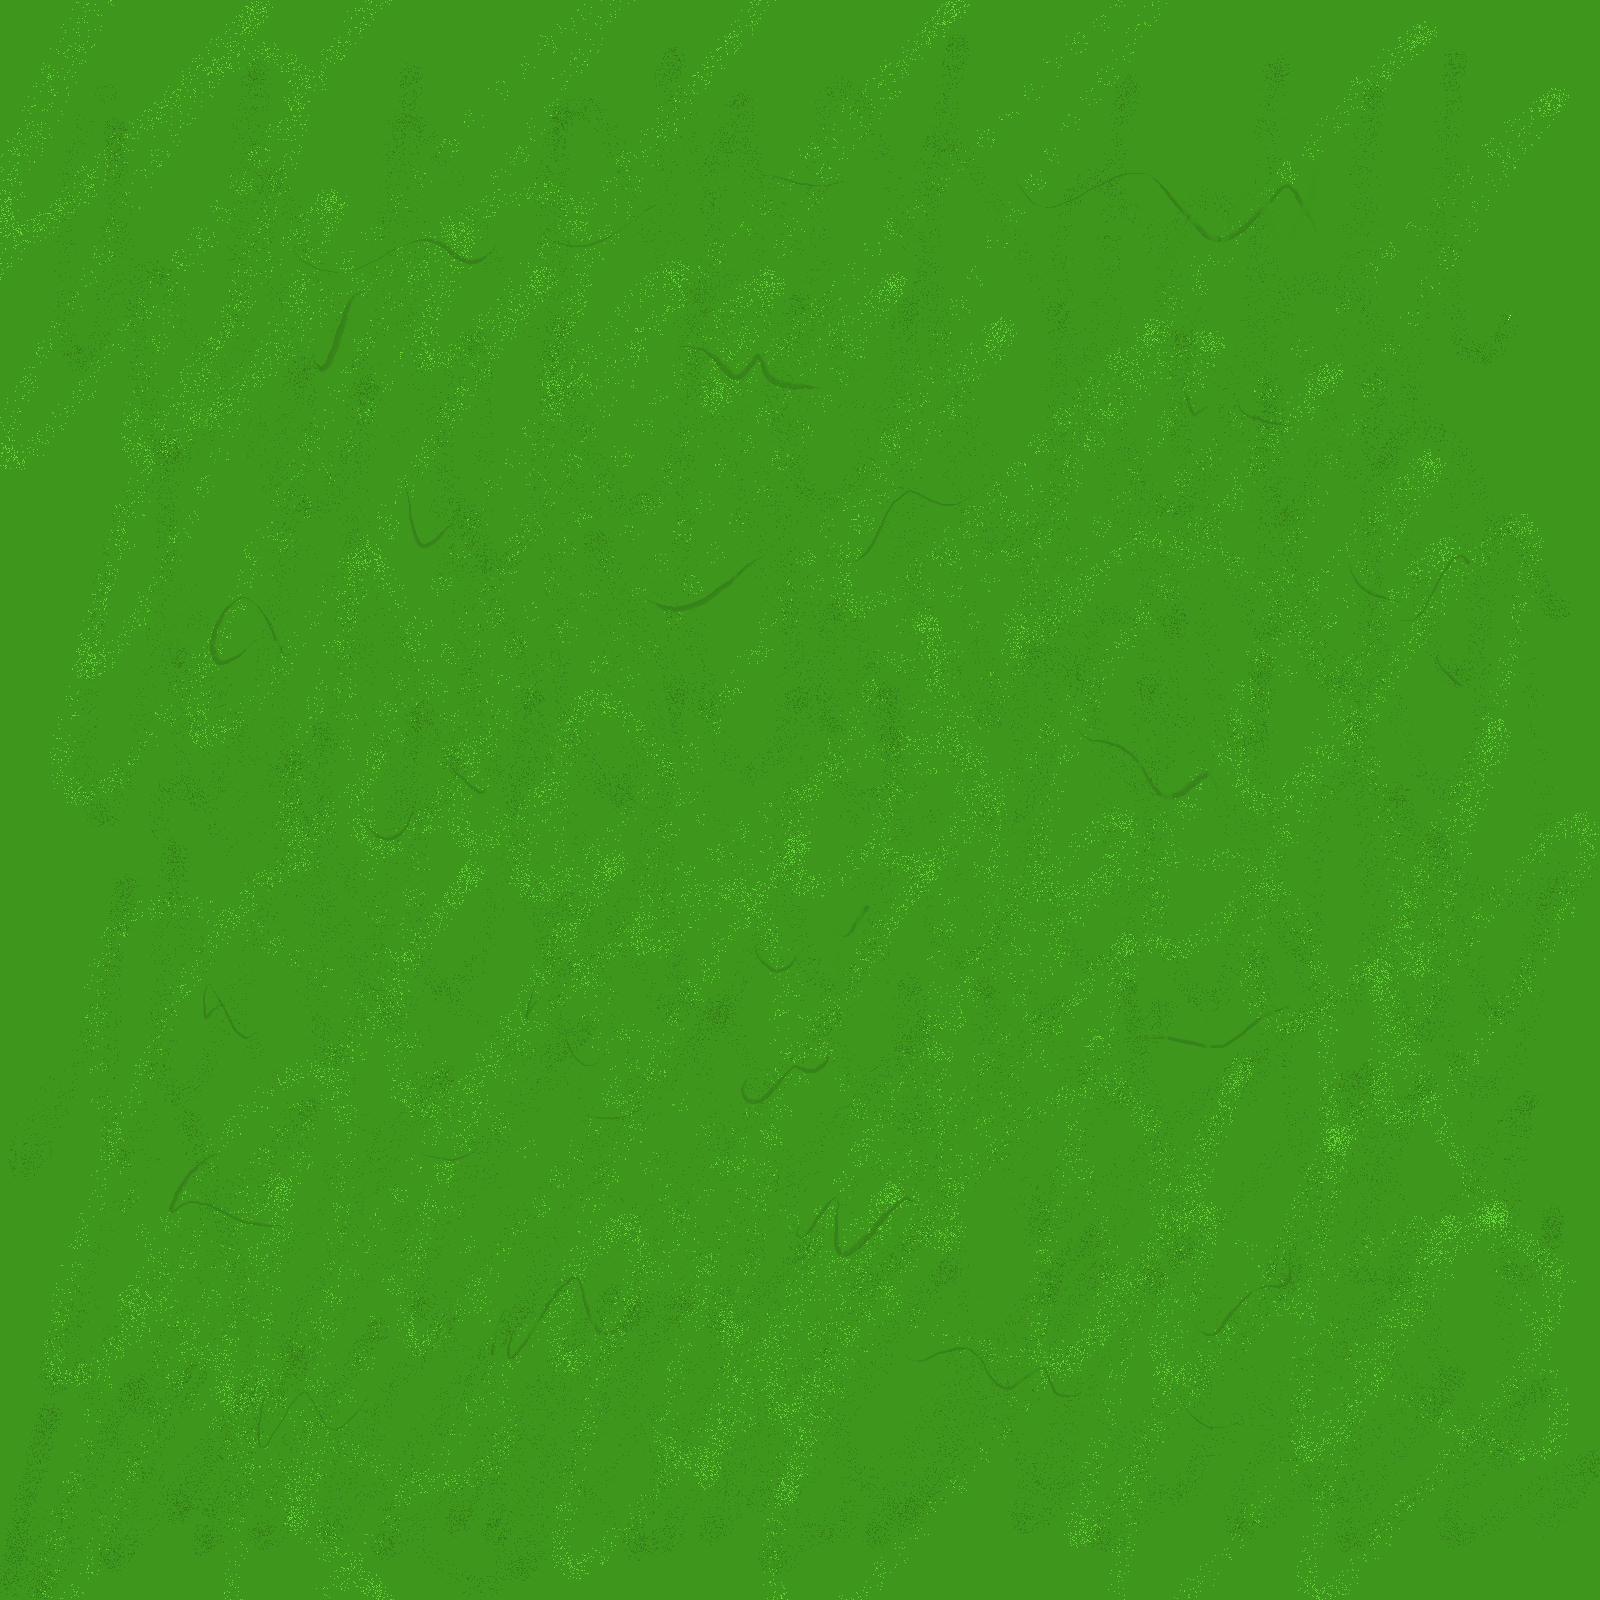
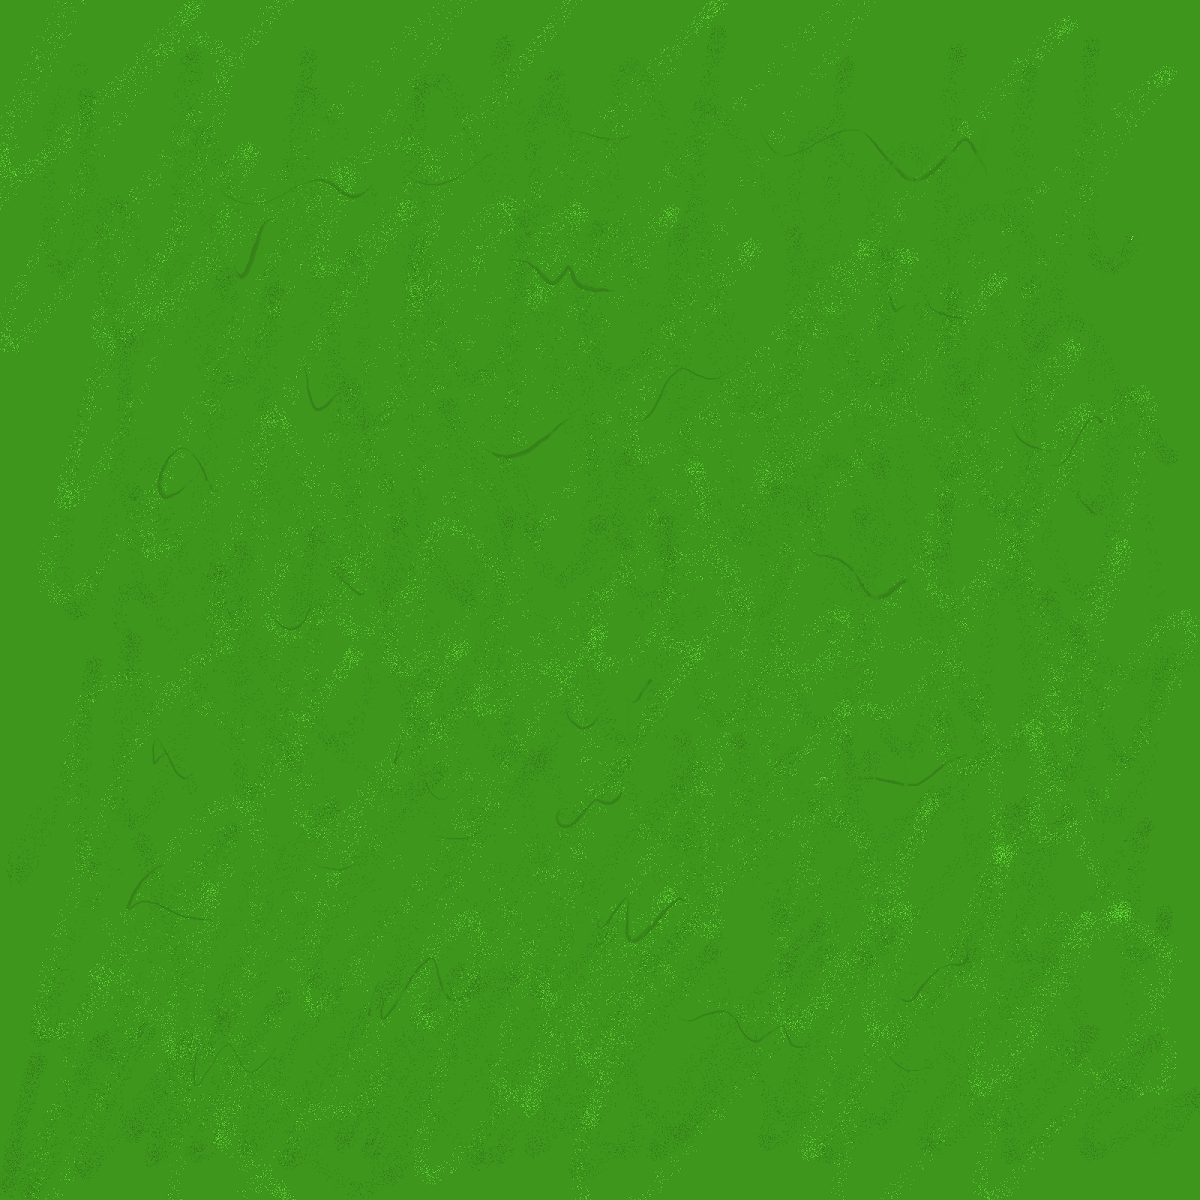
미니맵 용 pannel 수정(일단 강아지 얼굴 말고 저거...로)

diff --git a/play_mode.py b/play_mode.py
@@ -3,8 +3,14 @@ import random
 from pico2d import *
 import game_framework
 import game_world
+import pannel
 from background import Background
 from character import Character
+import map_mode
+
+
+centerX = 300
+centerY = 300
 
 def handle_events():
     events = get_events()
@@ -12,10 +18,11 @@ def handle_events():
         if event.type == SDL_QUIT:
             game_framework.quit()
         elif event.type == SDL_KEYDOWN and event.key == SDLK_ESCAPE:
-            print("얘는 되나")
             game_framework.quit()
         elif event.type == SDL_MOUSEBUTTONDOWN and event.button == SDL_BUTTON_LEFT:
             bg.setDest(event.x, 600 - 1 - event.y)
+        elif event.type == SDL_KEYDOWN and event.key == SDLK_m:
+            game_framework.push_mode(map_mode)
         else:
             dog.handle_event(event)
 
@@ -28,8 +35,6 @@ def init():
 
     game_world.add_object(bg, 0)
     game_world.add_object(dog, 1)
-
-
     pass
 
 def finish():
@@ -38,9 +43,13 @@ def finish():
 
 
 def update():
+    global centerX, centerY
     game_world.update()
+    centerX = bg.CX
+    centerY = bg.CY
+    print(centerX, centerY)
     # fill here
-    game_world.handle_collisions()
+    #game_world.handle_collisions()
 
 def draw():
     clear_canvas()

diff --git a/map_mode.py b/map_mode.py
@@ -1,0 +1,45 @@
+import pico2d
+import game_framework
+import game_world
+import play_mode
+import background
+from pannel import Pannel
+
+
+def init():
+    global pannel
+    pannel = Pannel()
+    pannel.centerPT(play_mode.centerX, play_mode.centerY)
+    game_world.add_object(pannel, 3)
+    pass
+
+def finish():
+    game_world.remove_object(pannel)
+    pass
+
+def update():
+    game_world.update()
+    pannel.centerPT(play_mode.centerX, play_mode.centerY)
+    pass
+
+def draw():
+    pico2d.clear_canvas()
+    game_world.render()
+    pico2d.update_canvas()
+    pass
+
+def handle_events():
+    events = pico2d.get_events()
+    for event in events:
+        if event.type == pico2d.SDL_QUIT:
+            game_framework.quit()
+        elif (event.type, event.key) == (pico2d.SDL_KEYDOWN, pico2d.SDLK_SPACE):
+            game_framework.change_mode(play_mode)
+        elif event.type == pico2d.SDL_KEYDOWN:
+            match event.key:
+                case pico2d.SDLK_ESCAPE:
+                    game_framework.pop_mode()
+                case pico2d.SDLK_m:
+                    game_framework.pop_mode()
+    pass
+

diff --git a/character.py b/character.py
@@ -47,7 +47,7 @@ class Idle:
 
     @staticmethod
     def draw(c):
-        c.image.clip_draw(c.frameX * 32, c.frameY * 32, 32, 32, c.x, c.y, 64, 64)
+        c.image.clip_draw(c.frameX * 32, c.frameY * 32, 32, 32, c.drawX, c.drawY, 64, 64)
 
 
 
@@ -68,7 +68,7 @@ class Run:
 
     @staticmethod
     def draw(c):
-        c.image.clip_draw(c.frameX * 32, c.frameY * 32, 32, 32, c.x, c.y) # 이미지 크기는 32*32
+        c.image.clip_draw(c.frameX * 32, c.frameY * 32, 32, 32, c.drawX, c.drawY) # 이미지 크기는 32*32
 
 class Jump:
 
@@ -158,7 +158,8 @@ class Character: # 강아지 캐릭터
 
 
     def __init__(self):
-        self.x, self.y = 300, 300 # 화면 정 중앙에 그리기
+        self.drawX, self.drawY= 300, 300 # 화면 정 중앙에 그리기
+        #self.x, self.y = 300, 300
         self.frameX, self.frameY = 0, 0
         self.image = load_image('resources/TestDog2.png')
         self.state_machine = StateMachine(self)

diff --git a/background.py b/background.py
@@ -1,8 +1,8 @@
 from pico2d import load_image
 from math import *
 
-bgWidth = 3200
-bgHeight = 3200
+bgWidth = 3600
+bgHeight = 3600
 
 class Background:
     def __init__(self, x = bgWidth // 2, y = bgHeight // 2):
@@ -11,6 +11,7 @@ class Background:
         self.count = 0
         self.speed = 1
         self.dirX, self.dirY = 0.0, 0.0
+        self.CX, self.CY = 300, 300
 
     def draw(self):
         self.image.draw(self.x, self.y, bgWidth, bgHeight)
@@ -22,7 +23,11 @@ class Background:
 
     def update(self):
         self.x += self.dirX * self.speed
+        self.CX -= self.dirX * self.speed
         self.y += self.dirY * self.speed
+        self.CY -= self.dirY * self.speed
         self.x = min(max(self.x, -(bgWidth//2) + 600), bgWidth//2)
+        self.CX = min(max(self.CX, 300), 3300)
         self.y = min(max(self.y, -(bgHeight//2) + 600), bgHeight//2)
+        self.CY = min(max(self.CY, 300), 3300)
         pass

diff --git a/pannel.py b/pannel.py
@@ -1,0 +1,18 @@
+from pico2d import *
+
+class Pannel:
+    def __init__(self):
+        self.image = load_image('resources/bg.png')
+        self.cx = 300
+        self.cy = 300
+
+    def centerPT(self, x, y):
+        self.cx = x
+        self.cy = y
+
+    def draw(self):
+        self.image.draw(300, 300, 600, 600)
+        draw_rectangle((self.cx - 32)/6, (self.cy -32)/6, (self.cx + 32)/6, (self.cy + 32)/6 )
+
+    def update(self):
+        pass
